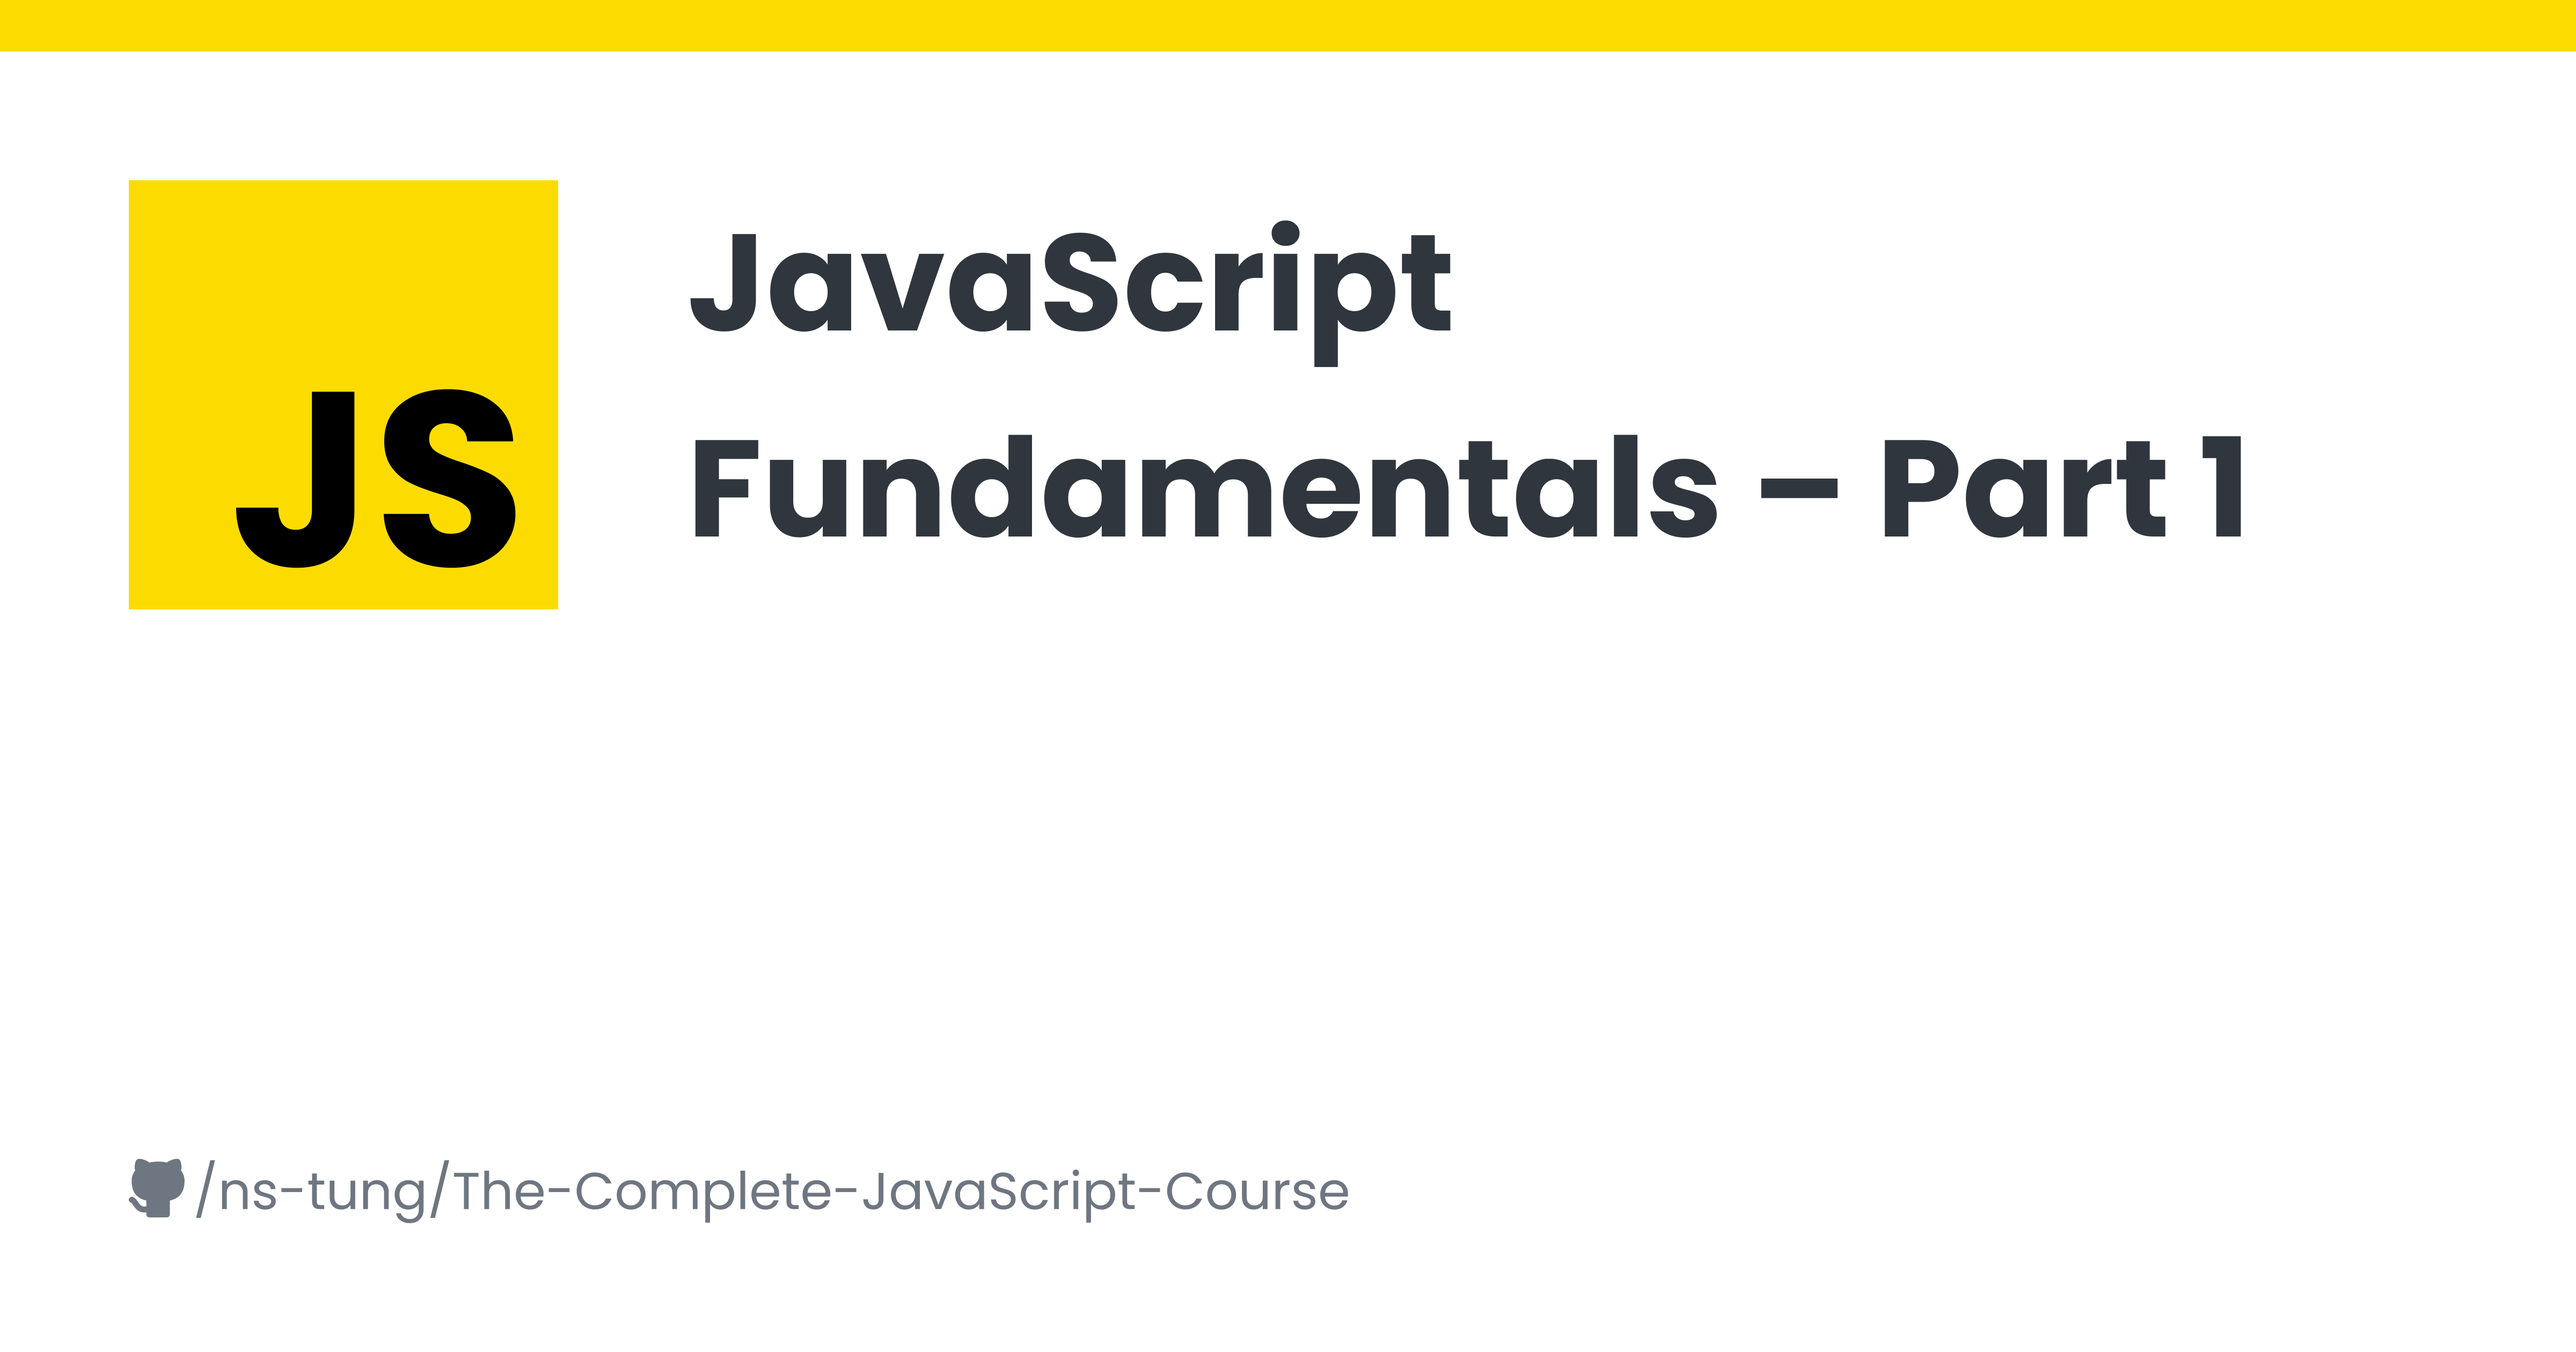
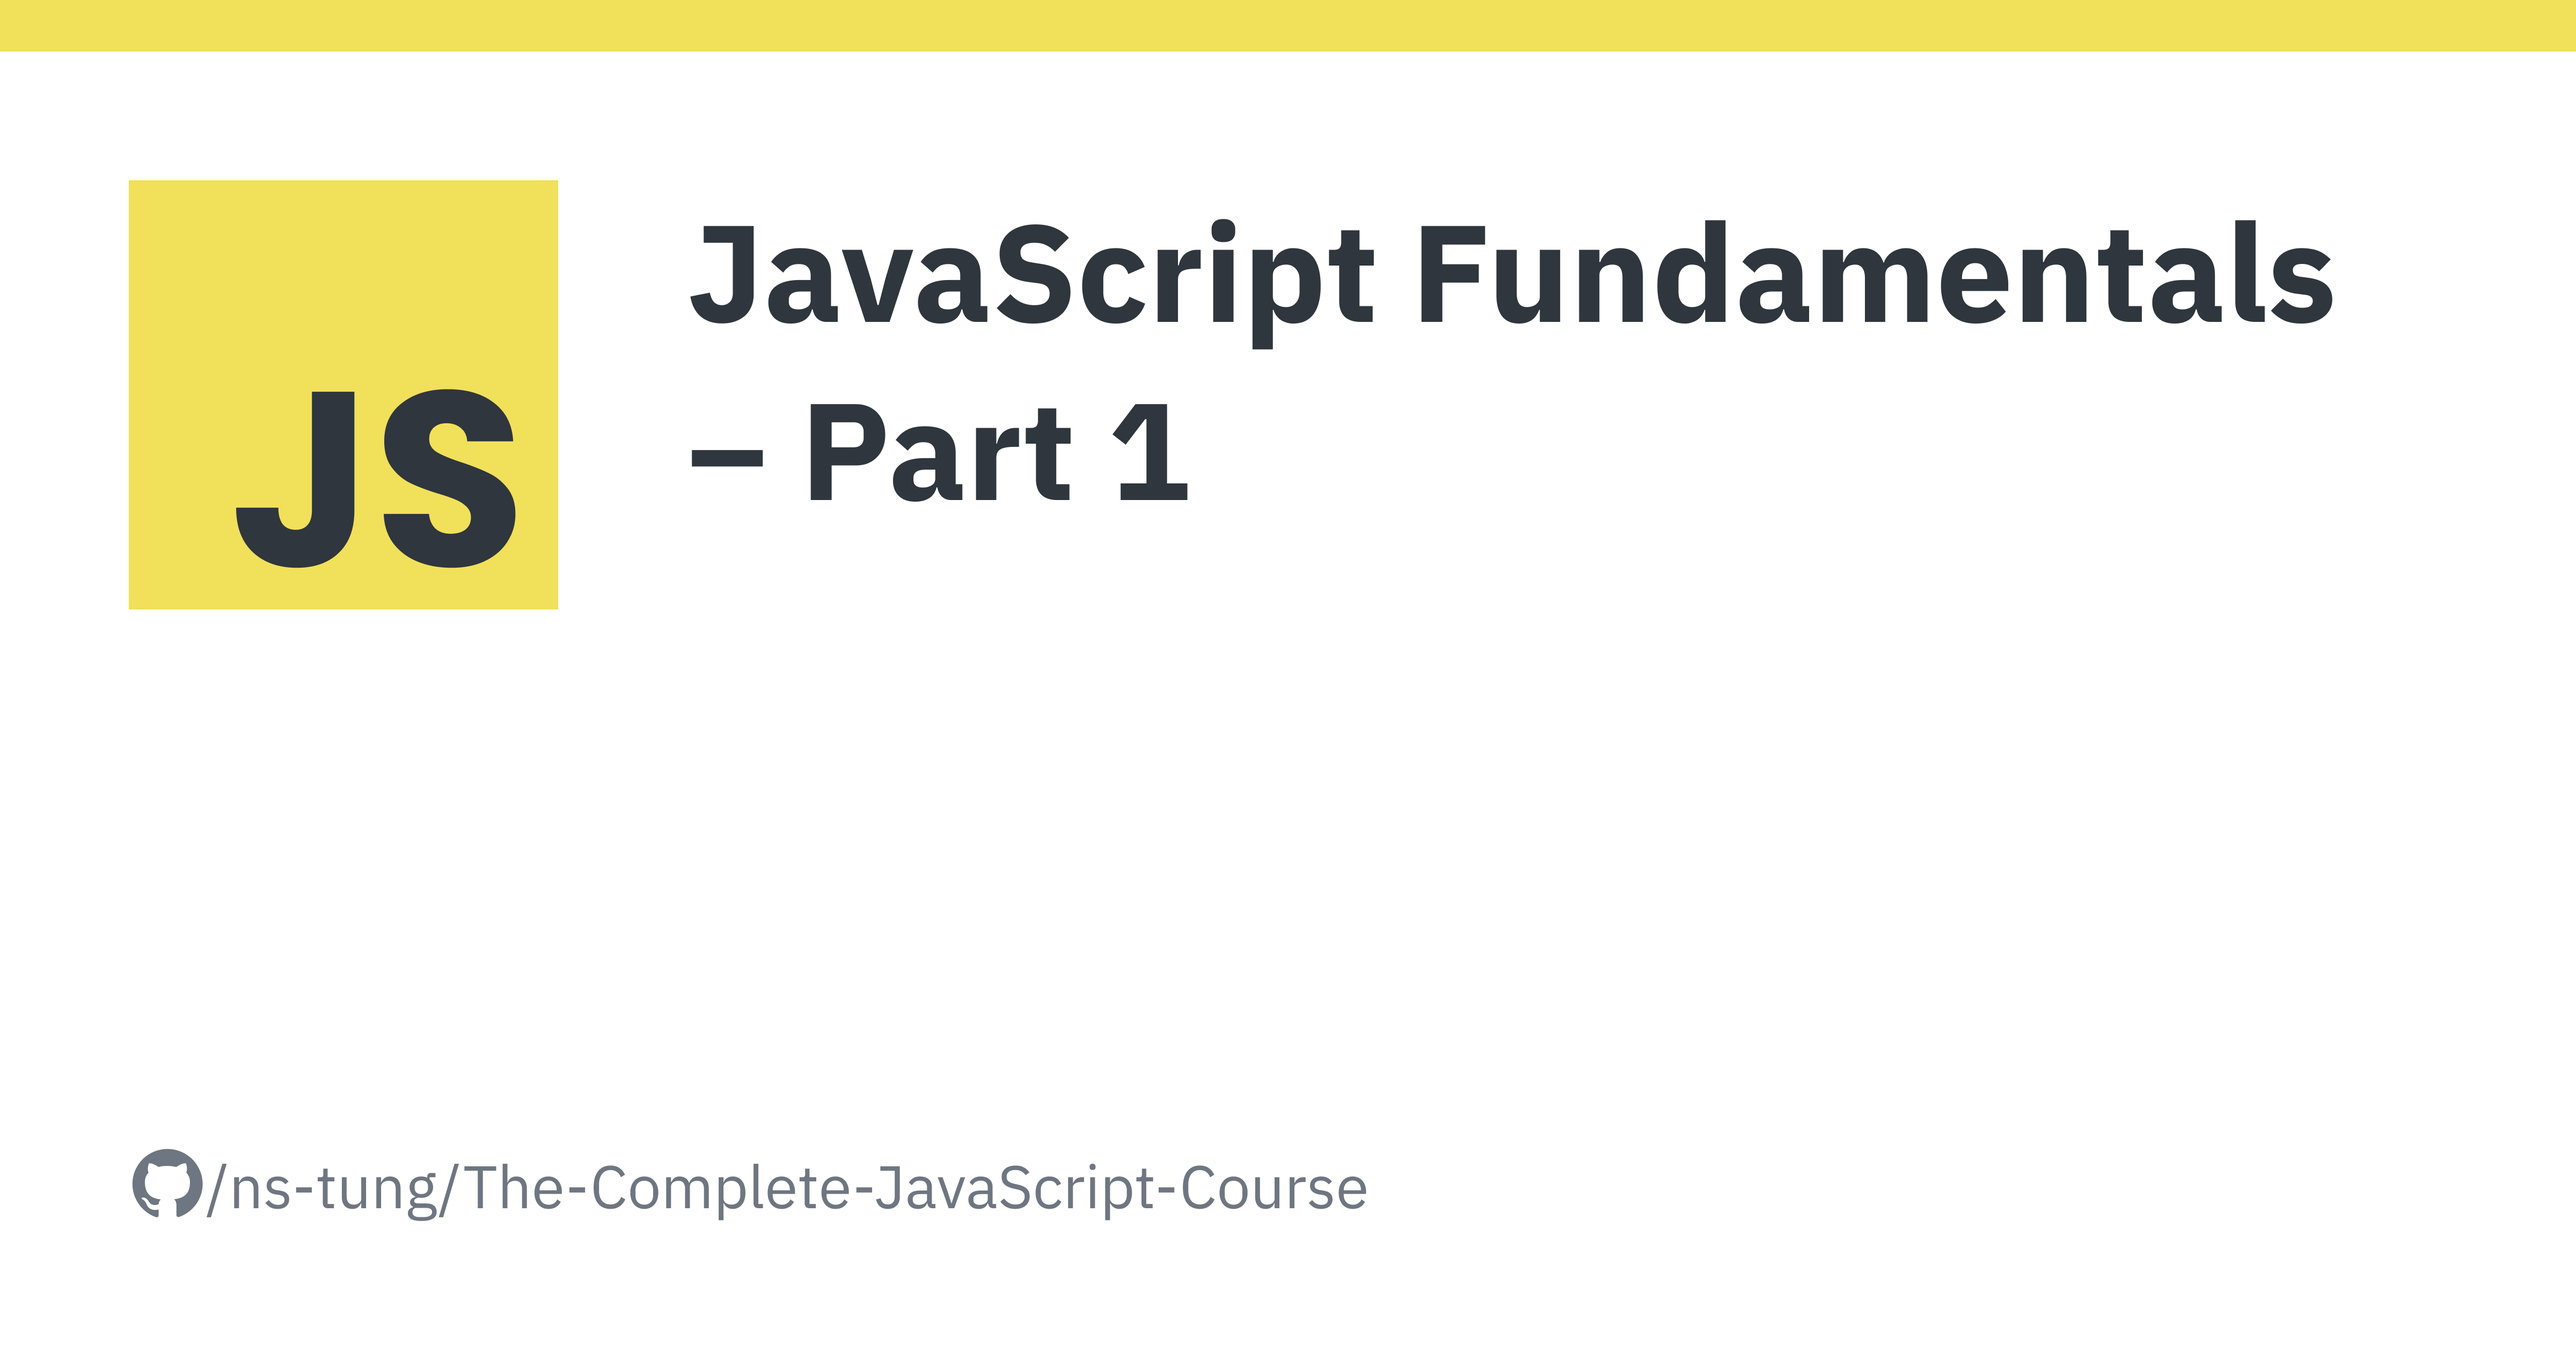
update ui

diff --git a/assets/styles.css b/assets/styles.css
@@ -1,7 +1,8 @@
-@import url("https://fonts.googleapis.com/css2?family=Inter:wght@100..900&family=JetBrains+Mono:ital@0;1&display=swap");
+@import url("https://fonts.googleapis.com/css2?family=IBM+Plex+Mono&family=IBM+Plex+Sans:wght@300;400;500;600&display=swap");
 
 body {
-  font-family: "Inter", sans-serif;
+  font-family: "IBM Plex Sans", sans-serif;
+  /* font-size: 1rem; */
 }
 
 .navbar .container {
@@ -19,7 +20,7 @@ body {
 
 code[class*="language-"],
 pre[class*="language-"] {
-  font-family: "JetBrains Mono", monospace;
+  font-family: "IBM Plex Mono", monospace;
   white-space: pre-wrap !important;
 }
 
